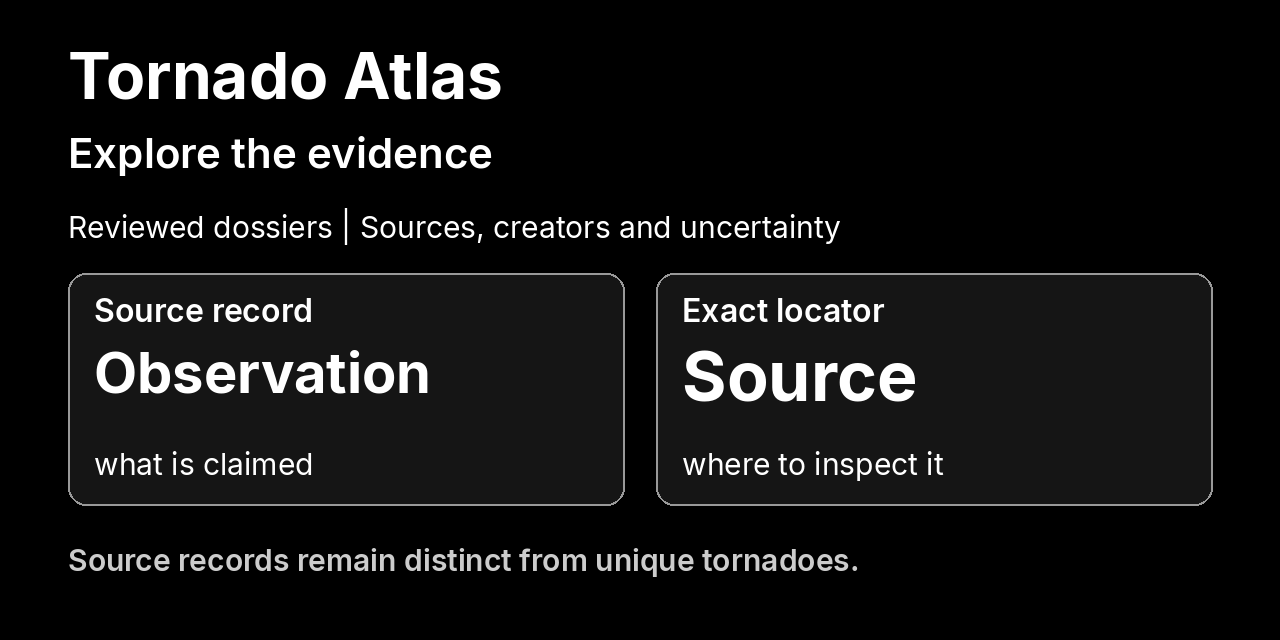
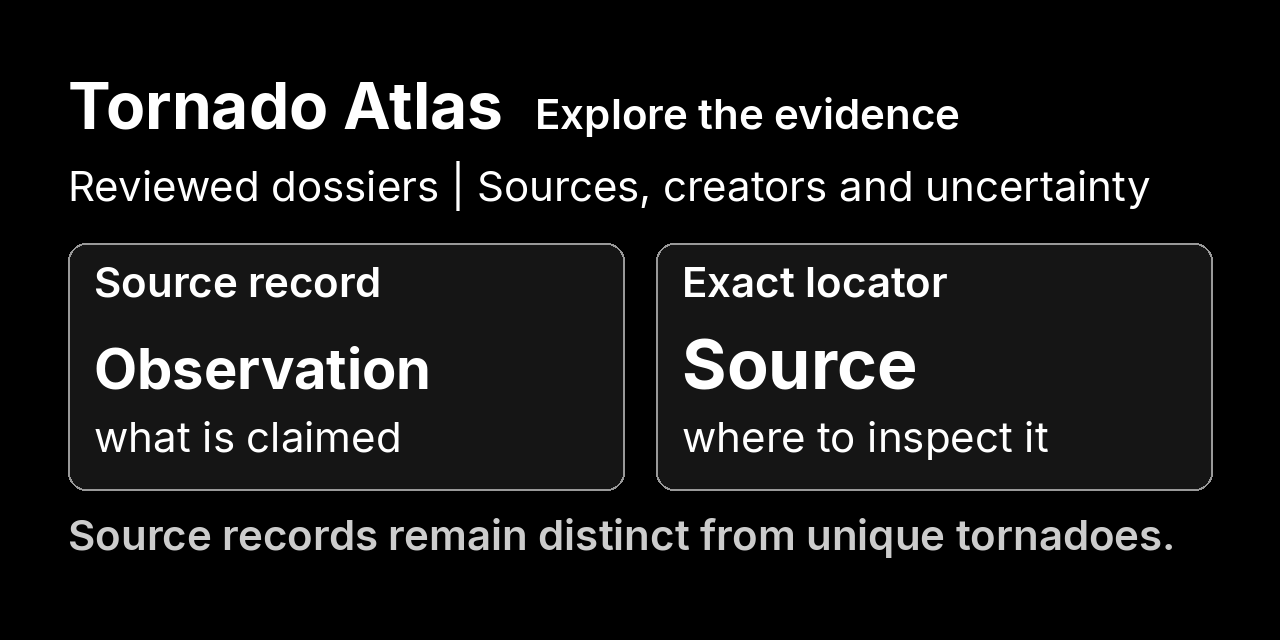
Set every sharing card label at 42 px or larger
Obscur sizes type in absolute points at 100 dpi, so its smallest label,
30 pt, is 42 px on the 1280 px sharing card as well. The card had six
labels at 30 and 32 px. They are now 42 px, and the renderer refuses any
size below that.

The layout changed to make room, not the type. The subtitle sits beside
the title, panel rows are shared so both values stand on one baseline,
text that does not fit wraps onto a second line, and the finished block
is centered on the card. A wrapped panel name moves the shared value row
down. Text that would need a third line stops the render rather than
shrinking.

Checked: every painted label in the receipt is 42 px or larger and
inside the safe region, and the ink measured on the PNG agrees (31 px
capitals at 42 px). Probes against temporary copies of the card and
receipt wrapped a longer footer with descenders, a longer panel name and
a three part context line onto two lines at 42 px with no overlap, and
refused a four part context line. A fresh review found no defect in the
card itself and five gaps in the wrap path, all fixed here. render_share_preview.py
--check passed, as did 654 Python tests with 1 skipped, check_exhibit,
check_catalogue and 920 of 920 Node tests.

diff --git a/tools/render_share_preview.py b/tools/render_share_preview.py
@@ -13,6 +13,10 @@ ROOT = Path(__file__).resolve().parents[1]
 sys.path.insert(0, str(ROOT))
 CONFIG_PATH = ROOT / "docs/sharing-card.json"
 RECEIPT = ROOT / "docs/sharing-card-receipt.json"
+# Obscur sizes type in absolute points at 100 dpi. Its smallest label, 30 pt,
+# is 42 px on any card, this 1280 px one included. Long text wraps instead.
+MIN_LABEL_PX = 42
+LINE_PITCH = 1.24
 
 
 def digest(path):
@@ -179,52 +183,123 @@ def main():
     files, faces = font_files(config, args.font_dir)
     image = Image.new("RGB", (1280, 640), palette["canvas"])
     draw = ImageDraw.Draw(image)
-    labels = []
 
-    def label(x, y, text, size, face="Regular", color=None, max_width=1144):
-        font = ImageFont.truetype(str(files[face]), size)
-        bounds = draw.textbbox((x, y), text, font=font, anchor="lt")
-        if (
-            bounds[0] < 60
-            or bounds[1] < 40
-            or bounds[2] > 1220
-            or bounds[3] > 602
-            or bounds[2] - bounds[0] > max_width
-        ):
-            raise ValueError("Sharing label leaves its safe region: " + text)
-        draw.text((x, y), text, font=font, fill=color or palette["text"], anchor="lt")
-        labels.append(
-            dict(text=text, face="Inter-" + face, bounds=list(bounds), size=size)
-        )
+    def font(size, face):
+        if size < MIN_LABEL_PX:
+            raise ValueError(f"Sharing label below {MIN_LABEL_PX} px: {size}")
+        return ImageFont.truetype(str(files[face]), size)
 
-    label(68, 52, data["title"], 64, "Bold")
-    label(68, 136, data["subtitle"], 42, "SemiBold", palette["accent"])
-    label(68, 208, data["context"], 30)
+    def width(text, size, face):
+        bounds = draw.textbbox((0, 0), text, font=font(size, face), anchor="lt")
+        return bounds[2] - bounds[0]
+
+    def lines(text, size, face, max_width):
+        # Long text moves onto more lines. Type is never made smaller to fit.
+        if width(text, size, face) <= max_width:
+            return [text]
+        if " | " in text:
+            result = []
+            for part in text.split(" | "):
+                if result and width(result[-1] + " | " + part, size, face) <= max_width:
+                    result[-1] += " | " + part
+                else:
+                    result.append(part)
+            if len(result) <= 2 and all(width(line, size, face) <= max_width for line in result):
+                return result
+        words = text.split()
+        splits = [
+            [" ".join(words[:i]), " ".join(words[i:])]
+            for i in range(1, len(words))
+            if "|" not in (words[i - 1], words[i])
+        ]
+        fitting = [pair for pair in splits if max(width(line, size, face) for line in pair) <= max_width]
+        if not fitting:
+            raise ValueError("Sharing label does not fit on two lines: " + text)
+        return min(fitting, key=lambda pair: max(width(line, size, face) for line in pair))
+
+    def paint(panel_floor, shift):
+        labels = []
+
+        def label(x, y, text, size, face="Regular", color=None, max_width=1144, anchor="lt"):
+            typeface = font(size, face)
+            bounds = draw.textbbox((x, y), text, font=typeface, anchor=anchor)
+            if panel_floor is not None and (
+                bounds[0] < 60
+                or bounds[1] < 40
+                or bounds[2] > 1220
+                or bounds[3] > 602
+                or bounds[2] - bounds[0] > max_width
+            ):
+                raise ValueError("Sharing label leaves its safe region: " + text)
+            if panel_floor is not None:
+                draw.text((x, y), text, font=typeface, fill=color or palette["text"], anchor=anchor)
+            labels.append(
+                dict(text=text, face="Inter-" + face, bounds=list(bounds), size=size)
+            )
+            return bounds
+
+        def block(x, top, text, size, face="Regular", color=None, max_width=1144):
+            bottom = top
+            for line in lines(text, size, face, max_width):
+                bottom = label(x, top, line, size, face, color, max_width)[3]
+                top += round(size * LINE_PITCH)
+            return bottom
+
+        title = label(68, 104 + shift, data["title"], 64, "Bold", anchor="ls")
+        subtitle_x = title[2] + 32
+        if subtitle_x + width(data["subtitle"], 42, "SemiBold") <= 1212:
+            subtitle = label(subtitle_x, 104 + shift, data["subtitle"], 42, "SemiBold", palette["accent"], anchor="ls")
+            bottom = max(title[3], subtitle[3])
+        else:
+            bottom = block(68, title[3] + 20, data["subtitle"], 42, "SemiBold", palette["accent"])
+        bottom = block(68, bottom + 24, data["context"], 42)
+        panel_top = bottom + 32
+        panel_bottom = panel_top
+        if panel_floor is not None:
+            for i in range(len(data["panels"])):
+                x = 68 + i * 588
+                draw.rounded_rectangle(
+                    (x, panel_top, x + 556, panel_floor),
+                    radius=18,
+                    fill=palette["panel"],
+                    outline=palette.get("border", palette["divider"]),
+                    width=2,
+                )
+        # Rows are shared across panels, so values of different sizes sit on
+        # one baseline and the detail lines start level. A wrapped name moves
+        # the whole value row down by its extra lines.
+        name_lines = max(len(lines(name, 42, "SemiBold", 502)) for name, _, _ in data["panels"])
+        baseline = panel_top + 146 + (name_lines - 1) * round(42 * LINE_PITCH)
+        for i, (name, value, detail) in enumerate(data["panels"]):
+            x = 68 + i * 588
+            block(x + 26, panel_top + 24, name, 42, "SemiBold", max_width=502)
+            label(
+                x + 26,
+                baseline,
+                value,
+                68 if len(value) < 10 else 56,
+                "Bold",
+                accents[i],
+                max_width=502,
+                anchor="ls",
+            )
+            detail_bottom = block(x + 26, baseline + 32, detail, 42, max_width=502)
+            panel_bottom = max(panel_bottom, detail_bottom + 30)
+        block(68, panel_bottom + 28, data["footer"], 42, "SemiBold", palette["muted"])
+        return panel_bottom, labels
+
     accents = [palette["accent"], palette.get("warning", palette["muted"])]
     if config["kind"] == "freight":
         series = json.loads((ROOT / config["tokens"]).read_text())["series"]
         accents = [series["model"]["obscur"], series["seasonal_naive"]["obscur"]]
-    for i, (name, value, detail) in enumerate(data["panels"]):
-        x = 68 + i * 588
-        draw.rounded_rectangle(
-            (x, 273, x + 556, 505),
-            radius=18,
-            fill=palette["panel"],
-            outline=palette.get("border", palette["divider"]),
-            width=2,
-        )
-        label(x + 26, 298, name, 32, "SemiBold", max_width=502)
-        label(
-            x + 26,
-            350,
-            value,
-            68 if len(value) < 10 else 56,
-            "Bold",
-            accents[i],
-            max_width=502,
-        )
-        label(x + 26, 451, detail, 30, max_width=502)
-    label(68, 548, data["footer"], 30, "SemiBold", palette["muted"])
+    # The first pass only measures, so each panel can be drawn under its text
+    # before the second pass paints the same positions. The shift centers the
+    # block and may move it up. The second pass enforces the safe region.
+    panel_bottom, measured = paint(None, 0)
+    top = min(item["bounds"][1] for item in measured)
+    bottom = max(item["bounds"][3] for item in measured)
+    shift = (640 - bottom - top) // 2
+    _, labels = paint(panel_bottom + shift, shift)
     output = ROOT / config["output"]
     output.parent.mkdir(parents=True, exist_ok=True)
     image.save(output, optimize=True)

diff --git a/tests/test_figure_tokens.py b/tests/test_figure_tokens.py
@@ -50,9 +50,16 @@ class FigureTokenTests(unittest.TestCase):
         receipt = check()
         self.assertEqual({label["face"] for label in receipt["painted_labels"]},
                          {"Inter-Regular", "Inter-SemiBold", "Inter-Bold"})
-        # Pillow sizes are pixels on a 1280 pixel card. 30 px here is the
-        # 42 px of the 1800 pixel wide figure edition at the same proportion.
-        self.assertTrue(all(label["size"] >= 30 for label in receipt["painted_labels"]))
+        # Obscur sizes type in absolute points at 100 dpi, so its smallest
+        # label, 30 pt, is 42 px on this 1280 pixel card too.
+        from tools.render_share_preview import MIN_LABEL_PX
+
+        self.assertEqual(MIN_LABEL_PX, 42)
+        for label in receipt["painted_labels"]:
+            self.assertGreaterEqual(label["size"], MIN_LABEL_PX, label["text"])
+            left, top, right, bottom = label["bounds"]
+            self.assertTrue(60 <= left < right <= 1220 and 40 <= top < bottom <= 602, label["text"])
+        self.assertIn("Type is never made smaller to fit.", source)
 
 
 if __name__ == "__main__":

diff --git a/docs/sharing-preview.md b/docs/sharing-preview.md
@@ -5,6 +5,8 @@ Its colors come from the Obscur tokens in `docs/obscur-tokens.json`.
 It is an authored summary of retained evidence, not an application screenshot.
 The image is 1280 by 640 pixels and remains below 1 MB. Inter Regular, SemiBold
 and Bold glyphs are rasterized from explicitly verified files.
+No label is smaller than 42 px, which is 30 pt at 100 dpi. Text that does not fit
+moves onto another line, and the renderer stops rather than shrink it.
 No font file or remote font request is part of the image.
 
 Install the optional `requirements-sharing.txt` authoring dependencies, then
